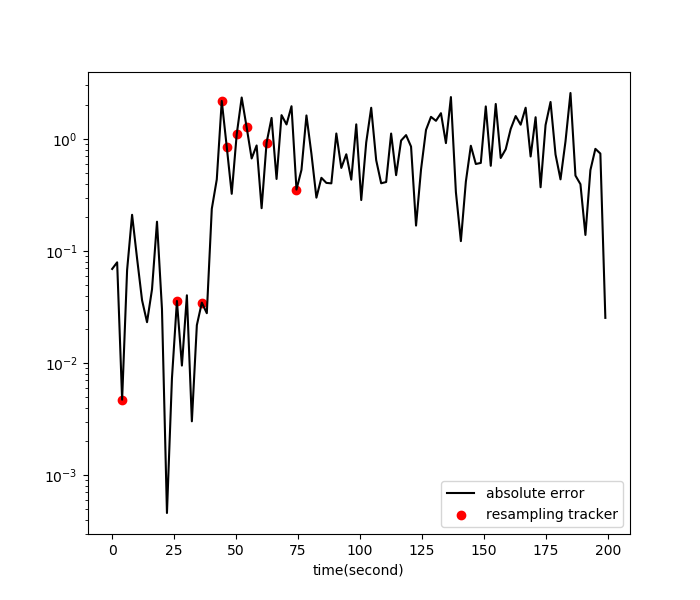
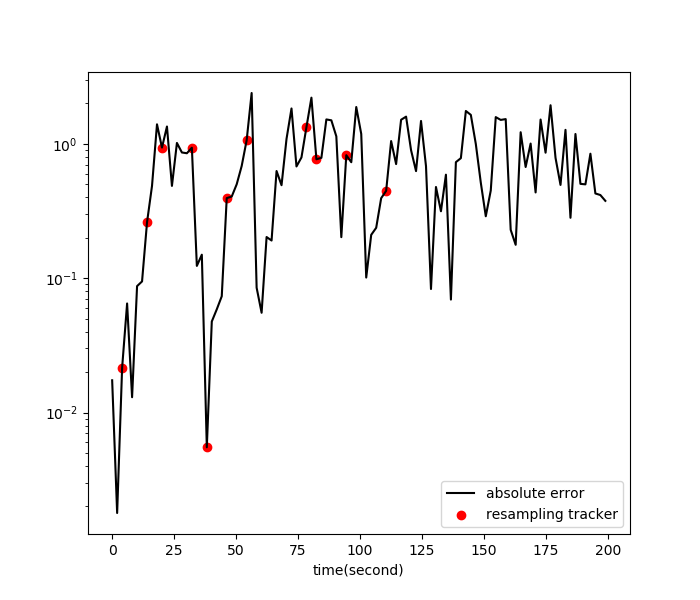
plot 2

diff --git a/python/experiments/AttractorPF/apf5.py b/python/experiments/AttractorPF/apf5.py
@@ -28,7 +28,7 @@ Solution using an attractor particle filter
 """
 db_id = '14_3_small'
 resample_id = '0'
-particle_count = 1000
+particle_count = 500
 resampling_threshold = 0.1
 db_path = str(script_path.parent.parent.parent) + '/data/henon_attractor_{}.h5'.format(db_id)
 attractor_sampler = atr.AttractorSampler(db_path = db_path)
